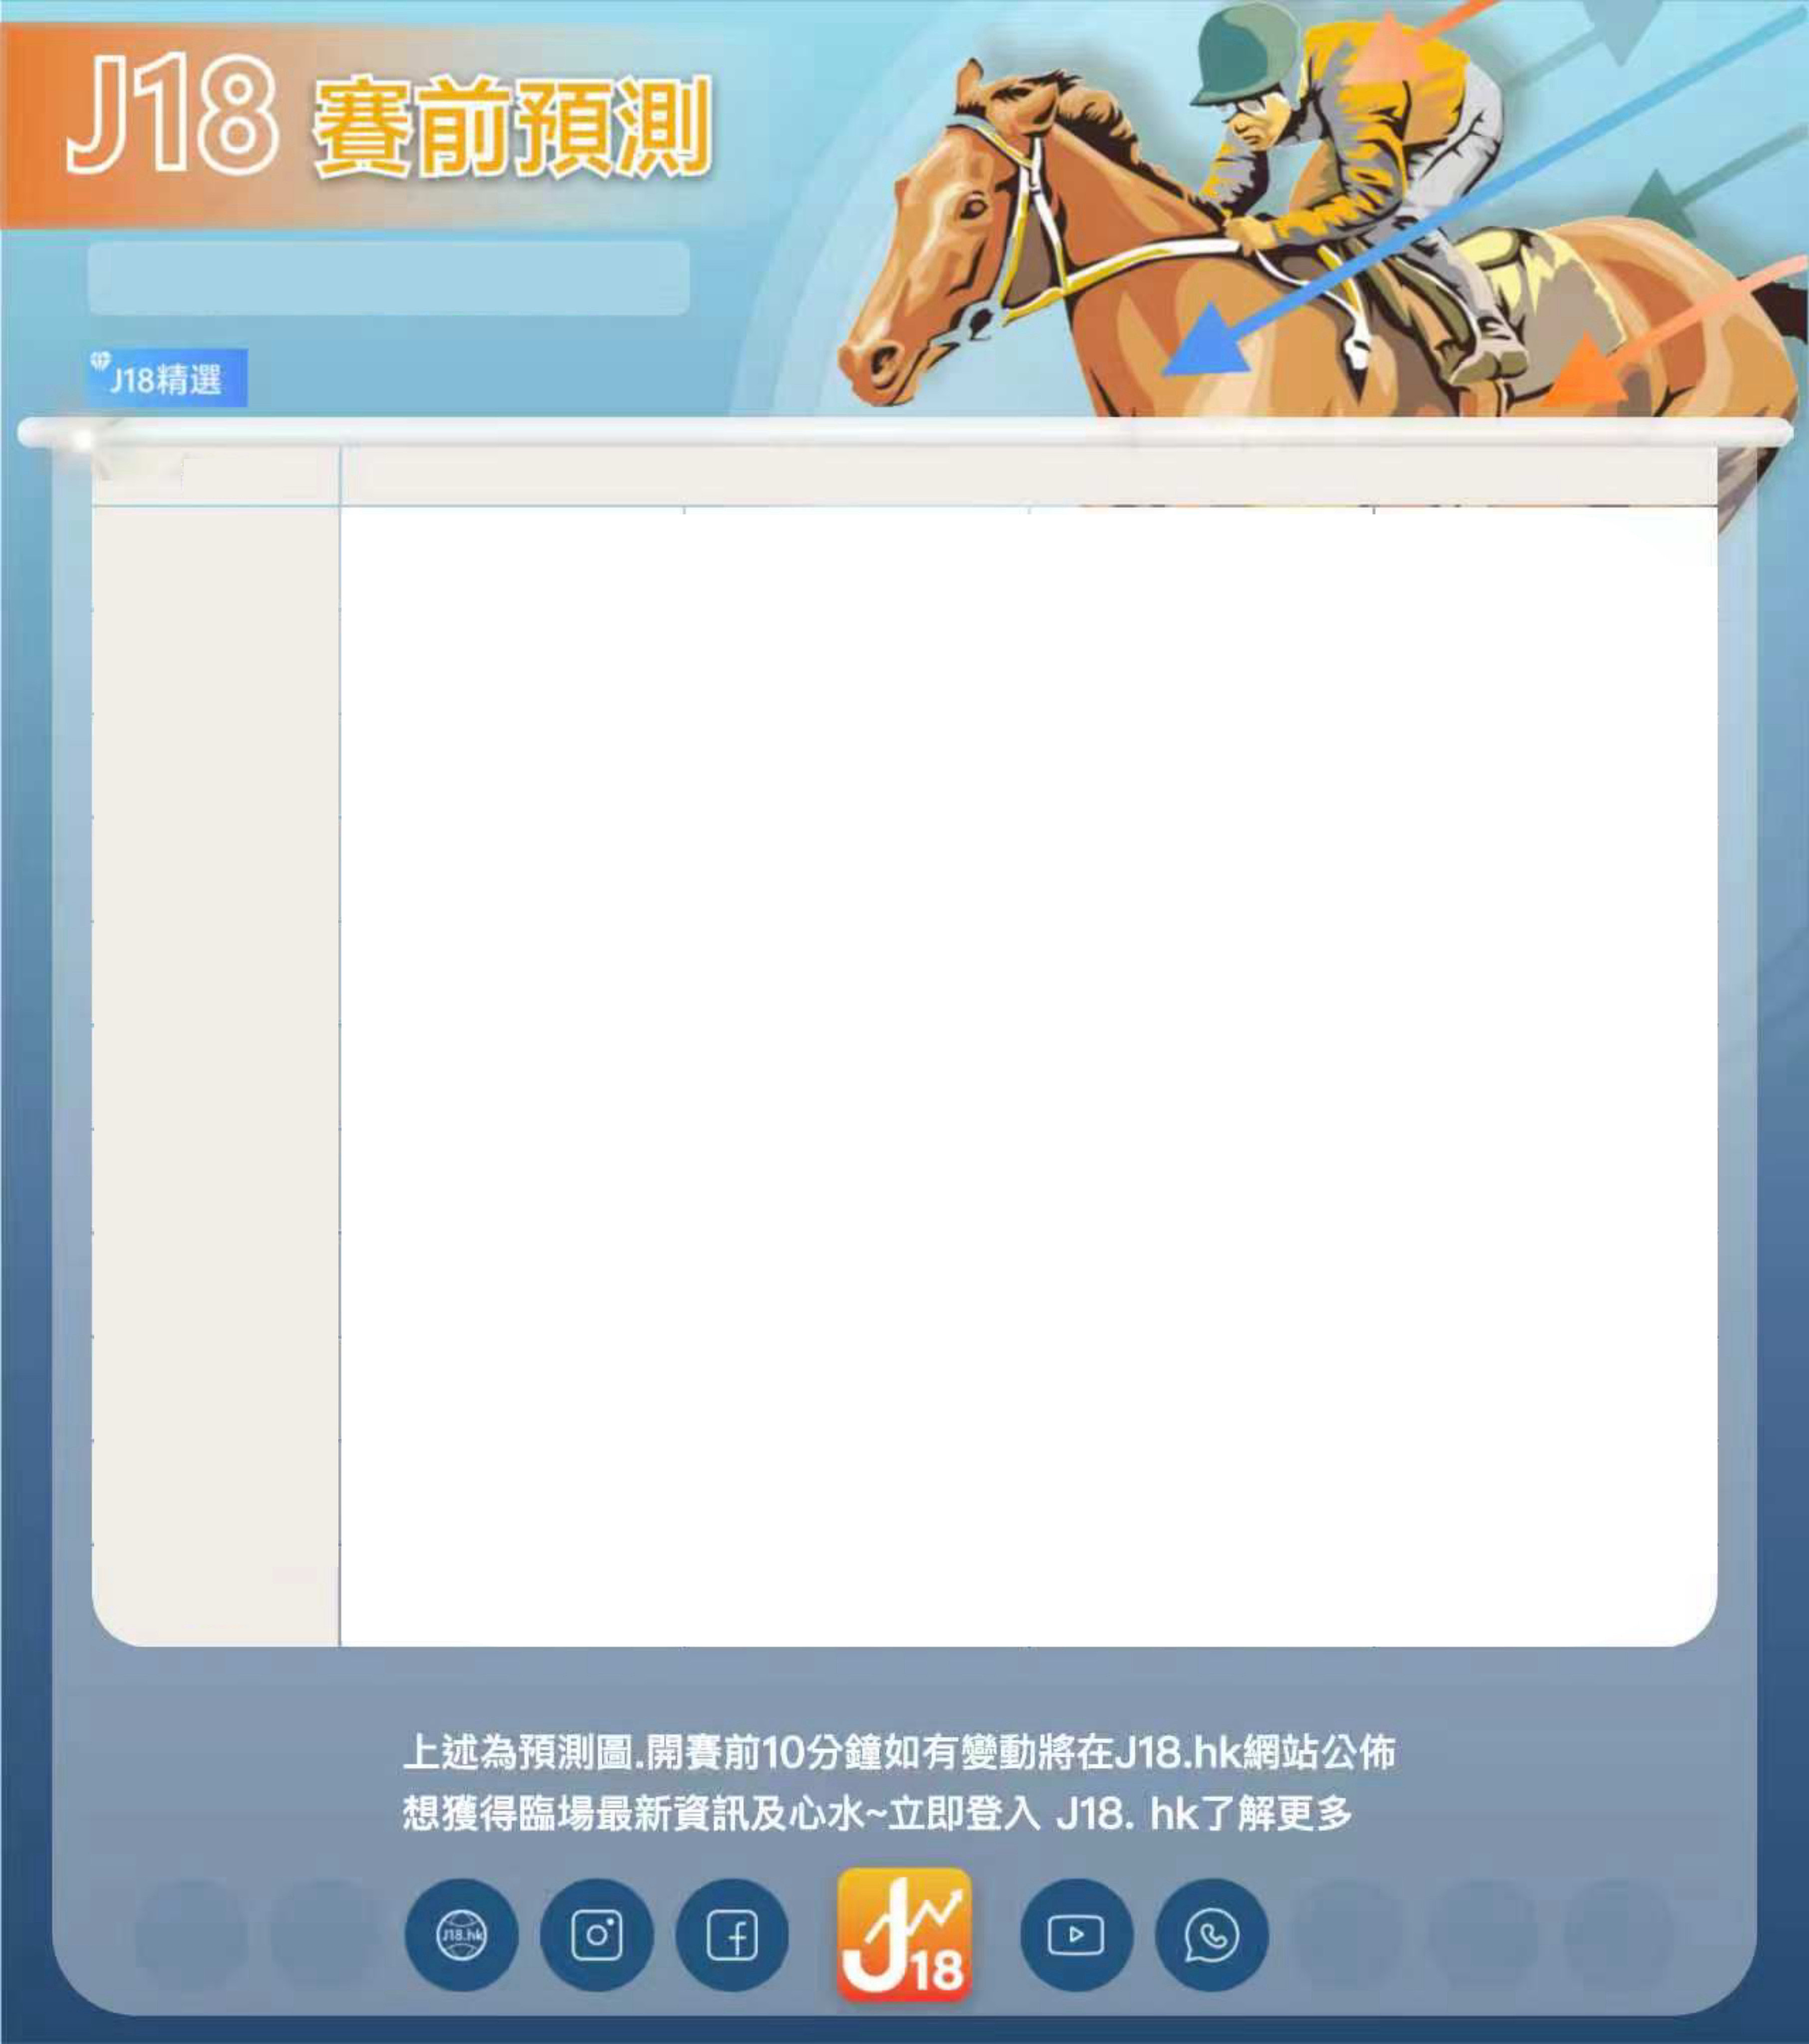
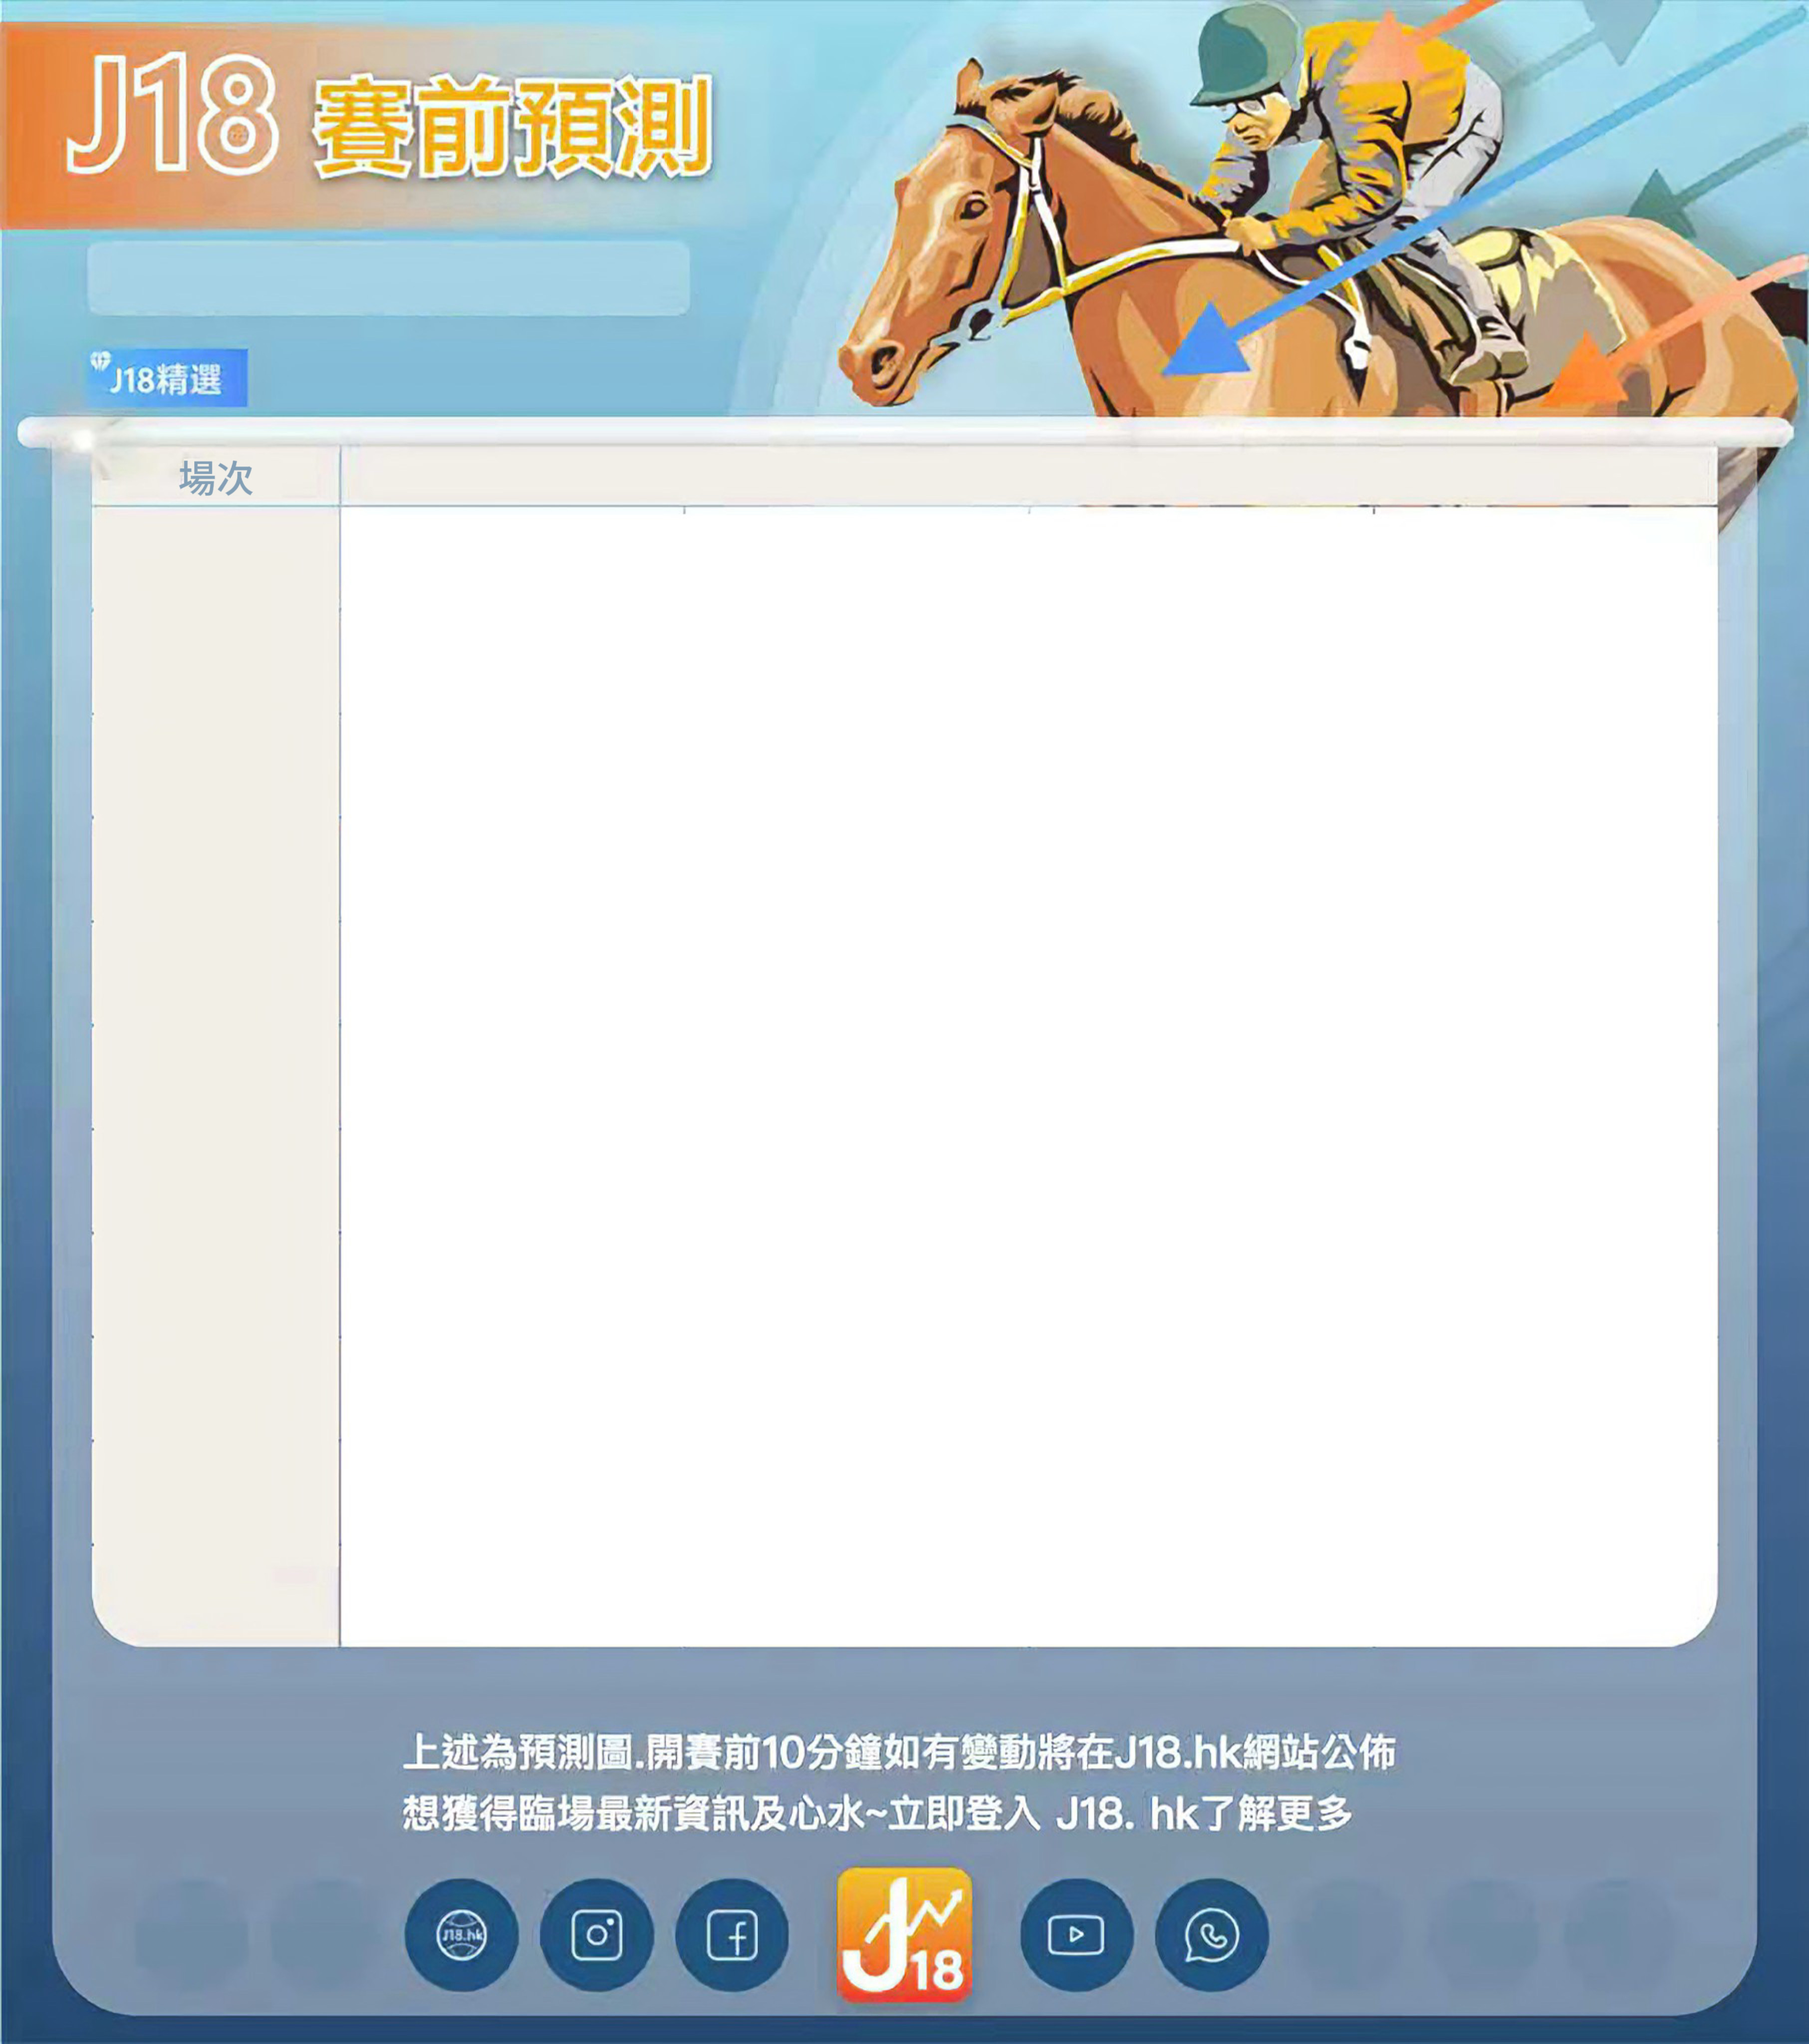
feat: use new blank template with printed 場次, matched fonts
Replace blank_blue with template that already has 場次 header.
Start mid-stretch below that header; size race/pick text to match
場次 (~62px); keep row/column guides and zebra striping.

diff --git a/ad_poster.py b/ad_poster.py
@@ -47,20 +47,27 @@ COPY_FILE = "copy.json"
 # 空白模版量測（blank_blue.jpg = 3625×4096；表身中段可垂直拉伸）
 BLANK_W = 3625
 BLANK_H = 4096
-# 上固定／中拉伸／下固定（中段為清空的場次＋揀馬區）
-SLICE_TOP_END = 1105
+# 上固定（含已印「場次」標題列）／中拉伸（場次號＋揀馬）／下固定
+SLICE_TOP_END = 1035  # 「場次」標題列底部分隔線以下
 SLICE_MID_END = 3290
 REF_N_ROWS = 11  # 模版中段對應參考場數
+ROW_H_SCALE = 1.0
 RACE_COL = (200, 670)
 CONTENT_X0 = 720
 CONTENT_X1 = 3380
-PICK_GAP = 48
+PICK_GAP = 32
 DATE_PILL = (100, 500, 1680, 640)
 DATE_PILL_FILL = (165, 210, 229)
 DATE_PILL_RADIUS = 70
-RACE_FG = (40, 70, 130)
-TEXT_FG = (40, 55, 100)
-HEADER_LABEL_Y = 1035
+# 字色貼近模版「場次」藍灰，略深方便閱讀
+RACE_FG = (70, 105, 135)
+TEXT_FG = (70, 105, 135)
+# 對齊模版「場次」字高（約 56–62px @3625 寬）
+FONT_BASE_PX = 62
+# 表身分隔
+GRID_LINE = (170, 185, 195)
+GRID_LINE_STRONG = (140, 165, 185)
+ROW_TINT = (236, 244, 250)
 THEMES = ("blue", "beige")
 WEEKDAY_ZH = ["星期一", "星期二", "星期三", "星期四", "星期五", "星期六", "星期日"]
 
@@ -565,12 +572,12 @@ def _paint_date_pill(canvas: "Image.Image", date_line: str) -> None:
     draw = ImageDraw.Draw(canvas)
     box = DATE_PILL
     draw.rounded_rectangle(box, radius=DATE_PILL_RADIUS, fill=DATE_PILL_FILL)
-    font = _load_font(56)
+    font = _load_font(64)
     bbox = font.getbbox(date_line)
     tw, th = bbox[2] - bbox[0], bbox[3] - bbox[1]
     # 過長則略縮字
     if tw > (box[2] - box[0] - 80):
-        font = _load_font(48)
+        font = _load_font(54)
         bbox = font.getbbox(date_line)
         tw, th = bbox[2] - bbox[0], bbox[3] - bbox[1]
     tx = box[0] + 48
@@ -604,6 +611,46 @@ def _pick_column_bounds(n_cols: int = 4) -> List[Tuple[int, int]]:
     return out
 
 
+def _draw_table_guides(
+    draw,
+    *,
+    mid_top: float,
+    mid_bot: float,
+    n: int,
+    row_h: float,
+    cols: Sequence[Tuple[int, int]],
+) -> None:
+    """畫行底、橫線與欄分隔，區分每一場／每一揀馬欄。"""
+    x_left = RACE_COL[0]
+    x_right = CONTENT_X1
+    # 偶數行淺底（只蓋揀馬白區，保留場次米色欄）
+    for i in range(n):
+        if i % 2 == 0:
+            continue
+        y0 = int(mid_top + i * row_h)
+        y1 = int(mid_top + (i + 1) * row_h)
+        draw.rectangle((CONTENT_X0 - 8, y0, x_right, y1), fill=ROW_TINT)
+
+    # 場次／內容分界（矩形條，縮圖不易消失）
+    vx = CONTENT_X0 - 16
+    draw.rectangle((vx - 2, int(mid_top), vx + 3, int(mid_bot)), fill=GRID_LINE_STRONG)
+
+    # 列分隔橫線
+    for i in range(n + 1):
+        y = int(mid_top + i * row_h)
+        strong = i in (0, n)
+        half = 3 if strong else 2
+        draw.rectangle(
+            (x_left, y - half, x_right, y + half),
+            fill=GRID_LINE_STRONG if strong else GRID_LINE,
+        )
+
+    # 揀馬欄分隔
+    for ci in range(1, len(cols)):
+        x = (cols[ci - 1][1] + cols[ci][0]) // 2
+        draw.rectangle((x - 1, int(mid_top), x + 2, int(mid_bot)), fill=GRID_LINE)
+
+
 def _assemble_blank_canvas(blank: "Image.Image", n_races: int) -> Tuple["Image.Image", int, float]:
     """
     上固定 + 中段垂直拉伸 + 下固定。
@@ -623,7 +670,7 @@ def _assemble_blank_canvas(blank: "Image.Image", n_races: int) -> Tuple["Image.I
     bot = blank.crop((0, mid_end, w, h))
 
     ref_mid_h = mid_end - top_end
-    row_h = ref_mid_h / float(REF_N_ROWS)
+    row_h = (ref_mid_h / float(REF_N_ROWS)) * float(ROW_H_SCALE)
     new_mid_h = max(1, int(round(n * row_h)))
     if mid.height != new_mid_h:
         mid = mid.resize((w, new_mid_h), Image.Resampling.LANCZOS)
@@ -662,6 +709,7 @@ def render_meeting_poster(
     )
     n = max(len(races), 1)
     canvas, mid_top, row_h = _assemble_blank_canvas(blank, n)
+    mid_bot = mid_top + n * row_h
 
     date_line = _meeting_date_line(
         races[0].racing_date if races else "",
@@ -670,24 +718,15 @@ def render_meeting_poster(
     _paint_date_pill(canvas, date_line)
 
     draw = ImageDraw.Draw(canvas)
-    # 場次欄標題（固定上段底部）
-    font_header = _load_font(52)
-    label = "場次"
-    bb = font_header.getbbox(label)
-    tw, th = bb[2] - bb[0], bb[3] - bb[1]
-    draw.text(
-        ((RACE_COL[0] + RACE_COL[1] - tw) // 2, HEADER_LABEL_Y),
-        label,
-        font=font_header,
-        fill=RACE_FG,
-    )
+    cols = _pick_column_bounds(4)
+    _draw_table_guides(draw, mid_top=mid_top, mid_bot=mid_bot, n=n, row_h=row_h, cols=cols)
 
-    # 字級隨列高略調
-    race_px = int(max(48, min(72, row_h * 0.34)))
-    pick_px = int(max(42, min(68, row_h * 0.30)))
+    # 字級對齊模版已印「場次」（約 FONT_BASE_PX）；場次號略大一級
+    base = int(FONT_BASE_PX)
+    race_px = int(max(base, min(int(row_h * 0.42), base + 12)))
+    pick_px = int(max(base - 2, min(int(row_h * 0.36), base + 4)))
     font_race = _load_font(race_px)
     font_pick = _load_font(pick_px)
-    cols = _pick_column_bounds(4)
 
     for i, race in enumerate(races):
         cy = mid_top + (i + 0.5) * row_h
@@ -708,7 +747,7 @@ def render_meeting_poster(
             bb = font_pick.getbbox(msg)
             tw, th = bb[2] - bb[0], bb[3] - bb[1]
             draw.text(
-                (cols[0][0], int(cy - th / 2) - 2),
+                (cols[0][0] + 18, int(cy - th / 2) - 2),
                 msg,
                 font=font_pick,
                 fill=(140, 120, 100),
@@ -722,12 +761,12 @@ def render_meeting_poster(
                 continue
             bb = font_pick.getbbox(label_s)
             tw, th = bb[2] - bb[0], bb[3] - bb[1]
-            while tw > (x1 - x0 - 8) and len(label_s) > 4:
+            while tw > (x1 - x0 - 24) and len(label_s) > 4:
                 label_s = label_s[:-1]
                 bb = font_pick.getbbox(label_s)
                 tw, th = bb[2] - bb[0], bb[3] - bb[1]
             draw.text(
-                (x0, int(cy - th / 2) - 2),
+                (x0 + 18, int(cy - th / 2) - 2),
                 label_s,
                 font=font_pick,
                 fill=TEXT_FG,
@@ -738,6 +777,8 @@ def render_meeting_poster(
     meta["blank"] = str(blank_path.name)
     meta["n_races"] = n
     meta["row_h"] = row_h
+    meta["race_px"] = race_px
+    meta["pick_px"] = pick_px
     meta["canvas_size"] = list(canvas.size)
     meta["date_line"] = date_line
     return meta

diff --git a/tests/test_ad_poster.py b/tests/test_ad_poster.py
@@ -84,8 +84,10 @@ def test_cell_text_no_share_pct():
 
 def test_mid_stretch_scales_with_race_count(tmp_path: Path):
     """場數變多／變少時，畫布高度應隨中段拉伸改變，列高近似固定。"""
+    from ad_poster import FONT_BASE_PX, ROW_H_SCALE
+
     ref_mid = SLICE_MID_END - SLICE_TOP_END
-    row_ref = ref_mid / float(REF_N_ROWS)
+    row_ref = (ref_mid / float(REF_N_ROWS)) * float(ROW_H_SCALE)
     heights = {}
     for n in (8, 11, 12):
         out = tmp_path / f"n{n}.png"
@@ -98,6 +100,9 @@ def test_mid_stretch_scales_with_race_count(tmp_path: Path):
         assert out.is_file()
         assert meta["n_races"] == n
         assert abs(meta["row_h"] - row_ref) < 1.0
+        # 字級對齊模版「場次」
+        assert meta["race_px"] >= FONT_BASE_PX
+        assert meta["pick_px"] >= FONT_BASE_PX - 4
         with Image.open(out) as im:
             heights[n] = im.size[1]
         assert meta["bytes"] <= 2048 * 1024
